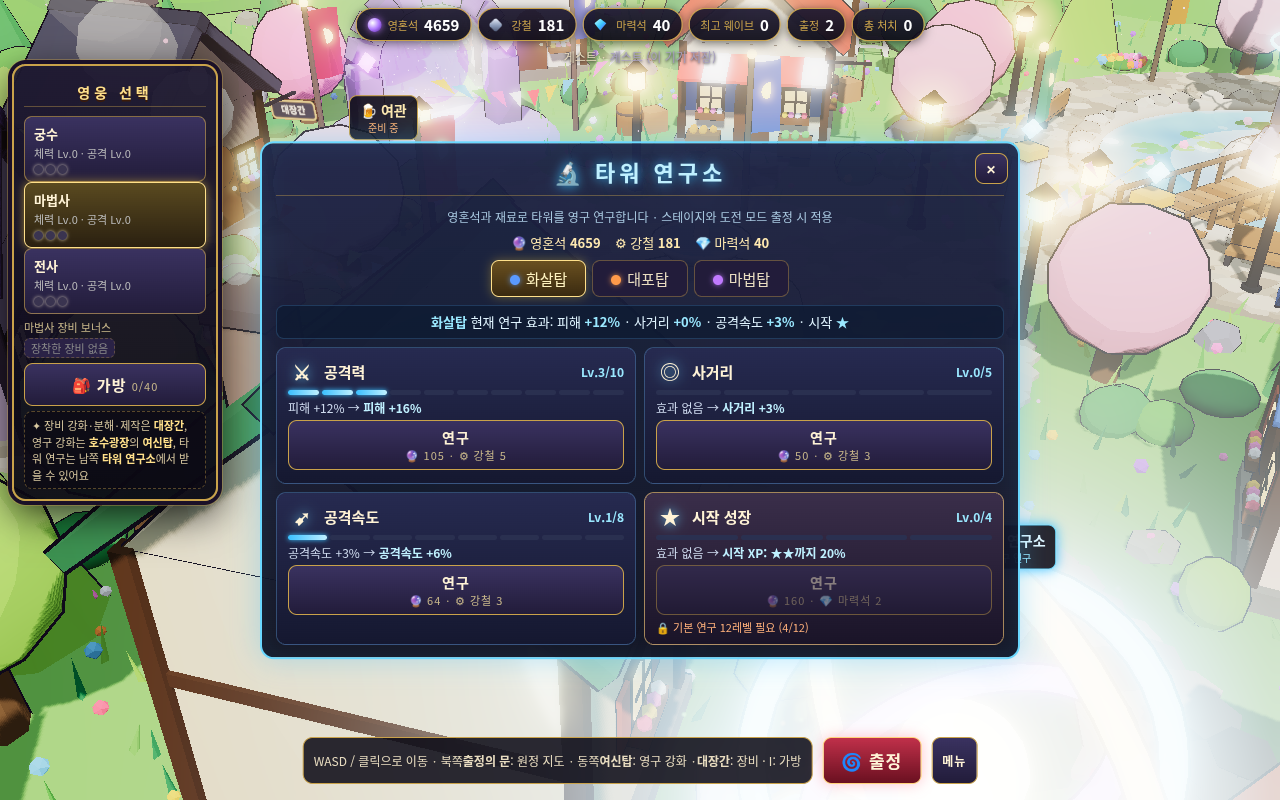
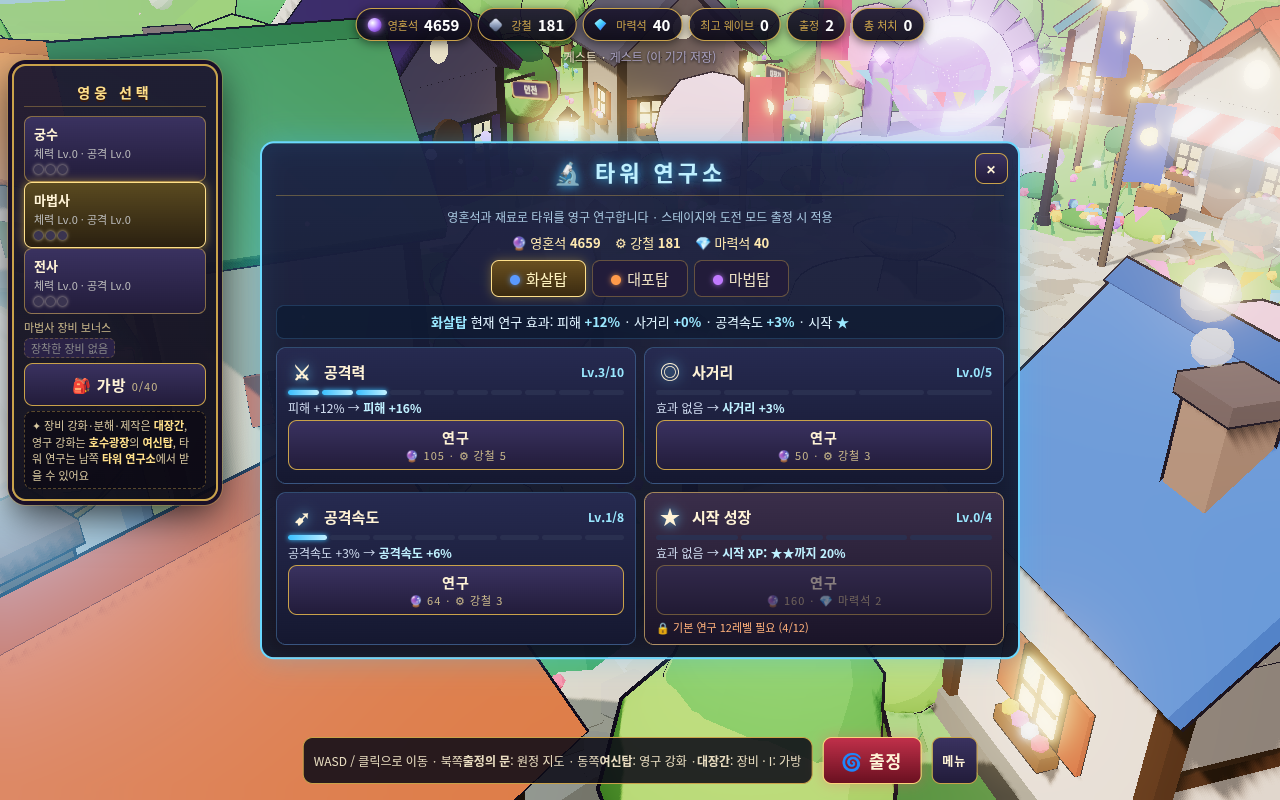
마을: 타워 연구소 정면이 기본 카메라를 향함(LAB_ROT), tower.py 스크린샷 구도 개선

diff --git a/src/world/town.js b/src/world/town.js
@@ -225,9 +225,9 @@ function gate() {
 }
 // ---------- 호수광장 + 여신탑 ----------
 export const tower = new THREE.Group(); export let smith = null; export const SMITH = new THREE.Vector2(-9, -12);
-export let lab = null; export const LAB = new THREE.Vector2(-9.5, 16.5), labFx = { t: 0 };
+export let lab = null; export const LAB = new THREE.Vector2(-9.5, 16.5), LAB_ROT = .45, labFx = { t: 0 }; // 정문이 남남동(기본 카메라 쪽)을 향함
 // 연구소 앞 접근 지점 (정문 앞, 마을 로컬)
-export const labFront = () => { const a = Math.atan2(-LAB.x, -LAB.y); return new THREE.Vector3(LAB.x + Math.sin(a) * 4.0, 0, LAB.y + Math.cos(a) * 4.0); }; // 타워 연구소 (마을 로컬)
+export const labFront = () => { const a = LAB_ROT; return new THREE.Vector3(LAB.x + Math.sin(a) * 4.0, 0, LAB.y + Math.cos(a) * 4.0); }; // 타워 연구소 (마을 로컬)
 function lakePlaza() {
   const LX = LAKE.x, LZ = LAKE.y, wm = waterMat(LR);
   const lake = new THREE.Mesh(new THREE.CircleGeometry(LR, 64), wm); lake.rotation.x = -Math.PI / 2; lake.position.set(LX, .07, LZ); T.add(lake);
@@ -293,7 +293,7 @@ function lakePlaza() {
 }
 // ---------- 타워 연구소: 둥근 석조 탑 + 유리 돔 천문대 + 회전하는 혼천의 + 미니 타워 받침대 (난수 R() 미사용 → 기존 마을 배치 불변) ----------
 function laboratory() {
-  const g = new THREE.Group(); g.position.set(LAB.x, 0, LAB.y); g.rotation.y = Math.atan2(-LAB.x, -LAB.y); T.add(g); lab = g;
+  const g = new THREE.Group(); g.position.set(LAB.x, 0, LAB.y); g.rotation.y = LAB_ROT; T.add(g); lab = g;
   const st = toon(0xcfc8e0), st2 = toon(0x9a92b8), br = toon(0xd8a040, { emissive: 0x2a1804 }), wd = toon(0x6a4a2a), BL = 0x6ad8ff;
   mk(Cyl(2.9, 3.1, .4, 16), toon(0x8f887a), 0, .2, 0, g, .03); mk(Cyl(2.5, 2.6, .25, 16), st2, 0, .52, 0, g, .02);
   mk(Cyl(2.1, 2.3, 3.4, 16), st, 0, 2.3, 0, g, .04); // 몸통

diff --git a/tests/tower.py b/tests/tower.py
@@ -64,9 +64,14 @@ with sync_playwright() as pw:
         if pg.evaluate("()=>G.phase==='build'"): break
     pp = pg.evaluate("()=>__pp"); ok('branches_in_combat', pp['frozen'] > 0 and pp['multi'] >= 2 and pp['pierceMax'] >= 1, pp)
     if SHOTS:
-        pg.evaluate("()=>{ G.select(null); G.wave = 6; G.startWave(); G.sim(6); const t = G.towers[0]; G.cam.target.set(t.m.g.position.x + 2, 0, t.m.g.position.z); G.cam.r = 26; G.cam.phi = .95; G.sim(.1); }"); pg.wait_for_timeout(600)
+        # 낮(건설 단계)에 별 1/2/3 타워가 함께 보이도록: 분기 없는 ★1·★★ 타워 2개 추가
+        pg.evaluate("""()=>{ G.select(null); const used = G.towers.map(t=>t.c+','+t.r), t0 = G.towers[0]; let best = null, bd = 1e9;
+          for (let r = 0; r < G.GH; r++) for (let c = 0; c < G.GW; c++) { if (used.includes(c+','+r) || G.buildReason(c, r, 'magic')) continue; const d = Math.hypot(c - t0.c, r - t0.r); if (d > 1.5 && d < bd) { bd = d; best = [c, r]; } }
+          if (best) G.build(best[0], best[1], 'magic'); used.push(best+''); let b2 = null; bd = 1e9; for (let r = 0; r < G.GH; r++) for (let c = 0; c < G.GW; c++) { if (used.includes(c+','+r) || G.buildReason(c, r, 'cannon')) continue; const d = Math.hypot(c - t0.c, r - t0.r); if (d > 1.5 && d < bd) { bd = d; b2 = [c, r]; } }
+          if (b2) { G.build(b2[0], b2[1], 'cannon'); const t = G.towers[G.towers.length-1]; G.upgradeTower(t); G.towerXp(t, 900); }
+          G.sim(1.5); const xs = [t0, ...G.towers.slice(-2)].map(t=>t.m.g.position); const cx = xs.reduce((a,p)=>a+p.x,0)/xs.length, cz = xs.reduce((a,p)=>a+p.z,0)/xs.length;
+          G.cam.target.set(cx, 1.5, cz); G.cam.r = 19; G.cam.phi = .92; G.cam.theta = .35; document.getElementById('note').classList.add('hidden'); document.getElementById('banner').classList.remove('show'); G.sim(.2); }"""); pg.wait_for_timeout(800)
         pg.screenshot(path=f'{OUT}/stars_ingame.png')
-        pg.evaluate("()=>{ for (let i=0;i<80 && G.phase!=='build';i++) G.sim(1); }")
     # 판매: 환급은 투자 골드 기준(별·분기 무관) → 별 올린 타워를 사고팔아도 골드가 늘지 않음
     pg.evaluate("()=>{ G.coreHp = 999; for (const t of G.towers) { t.hp = t.max; } }")
     r = pg.evaluate("""()=>{ const t = G.towers[0], g0 = G.gold, inv = t.invest; G.select(t); G.sellTower(t); return [G.gold - g0, Math.floor(inv * .7)]; }""")
@@ -88,7 +93,7 @@ with sync_playwright() as pw:
     pg.evaluate("()=>{ localStorage.setItem('hd3d_save', JSON.stringify({ souls: 5000, mat: { steel: 200, crystal: 40 }, stats: { runs: 2 } })); }")
     pg.mouse.click(700, 400); pg.wait_for_timeout(300); pg.click('#lgGuest'); pg.wait_for_timeout(300); pg.click('#mnCont'); pg.wait_for_function("()=>G.screen==='town'", timeout=30000); pg.wait_for_timeout(1000)
     if SHOTS:
-        pg.evaluate("()=>{ const [x,z,fx,fz]=G.townLab(); G.townTeleport(fx+6, fz+1); window.__k=setInterval(()=>{G.cam.target.set(x+1,3.2,-150+z); G.cam.r=22; G.cam.phi=1.02; G.cam.theta=-.55;},16); }"); pg.wait_for_timeout(1500)
+        pg.evaluate("()=>{ const [x,z,fx,fz]=G.townLab(); G.townTeleport(fx+2.5, fz+.5); window.__k=setInterval(()=>{G.cam.target.set(x+.5,3.4,-150+z+.5); G.cam.r=21; G.cam.phi=1.08; G.cam.theta=.3;},16); }"); pg.wait_for_timeout(1500)
         pg.screenshot(path=f'{OUT}/lab_building.png'); pg.evaluate("()=>clearInterval(window.__k)")
     pg.evaluate("()=>{ const [x,z,fx,fz]=G.townLab(); G.townTeleport(fx+3, fz+2); G.townGoal(fx, fz); }")
     pg.wait_for_function("()=>!document.getElementById('labPanel').classList.contains('hidden')", timeout=15000); ok('walk_opens_lab', True)
